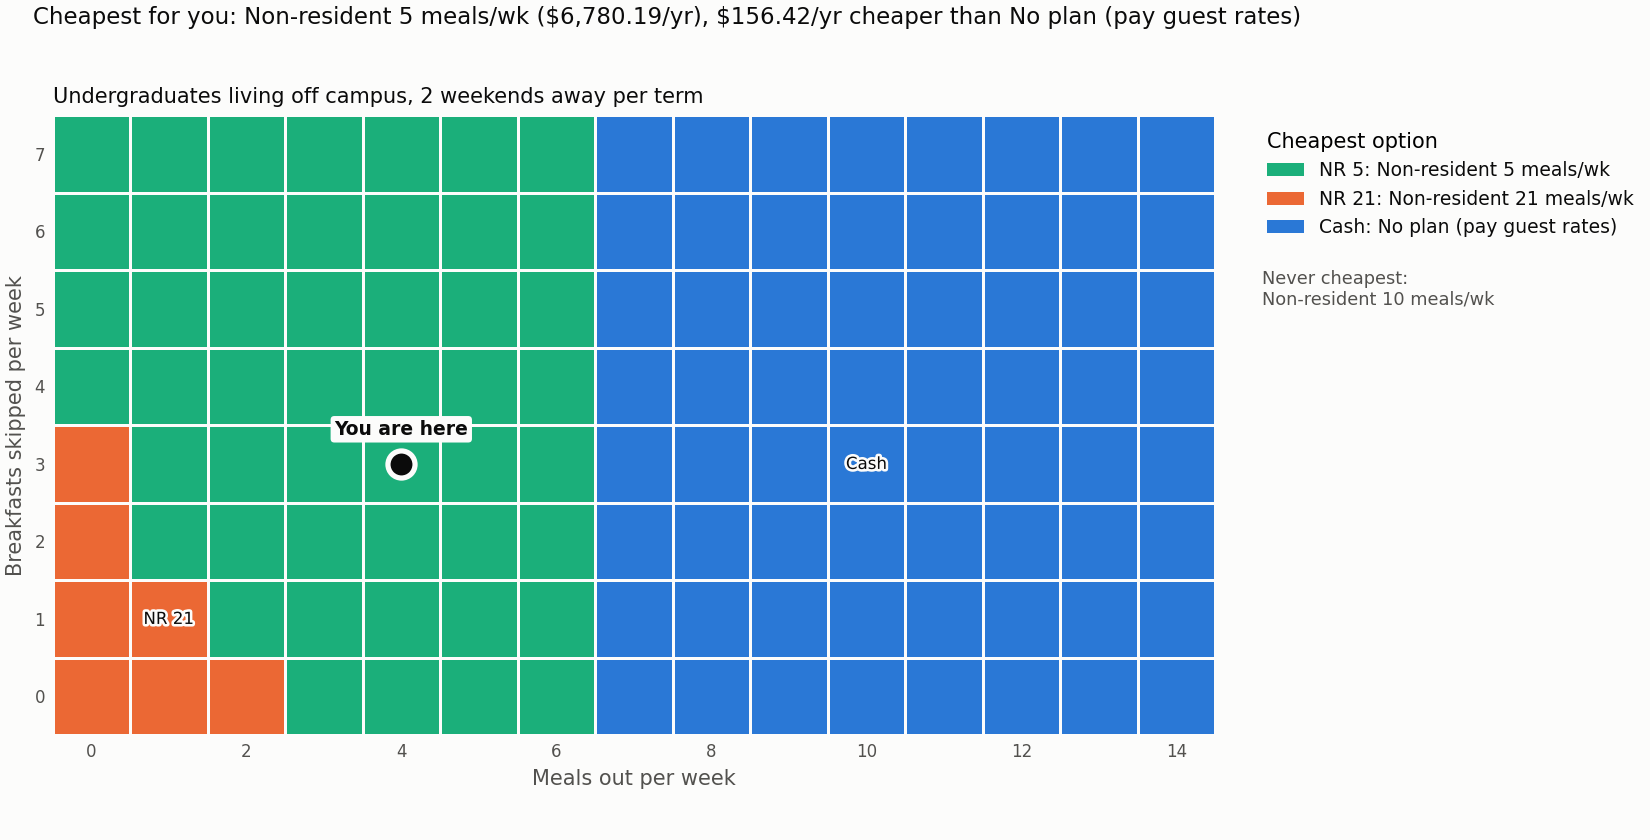
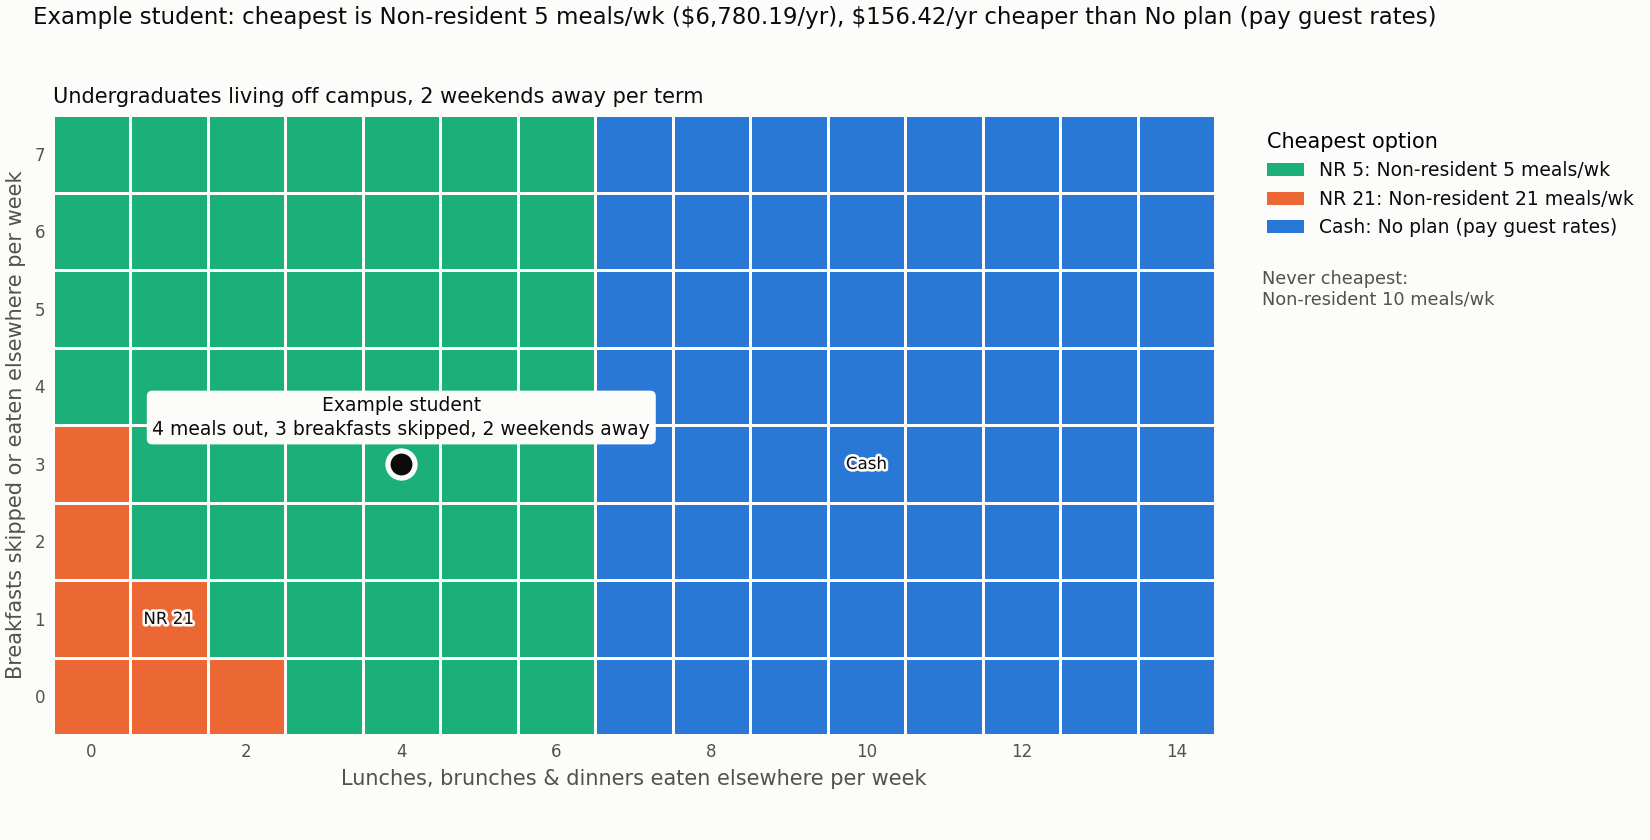
Figures: label the example student, clearer map axis titles
The dot on you_are_here.png is now labelled 'Example student' with its
habits (4 meals out, 3 breakfasts skipped, 2 weekends away); --label
sets a different name when a student plots their own habits with
--you-are-here. Map axes now read 'Lunches, brunches & dinners eaten
elsewhere per week' and 'Breakfasts skipped or eaten elsewhere per
week'. Inputs unchanged.

diff --git a/src/decision_map.py b/src/decision_map.py
@@ -185,6 +185,8 @@ SHORT_LABELS = {
     "resident": "Resident", "nr5": "NR 5", "nr10": "NR 10", "nr21": "NR 21",
     "gp_regular": "GP Reg", "gp_deluxe": "GP Deluxe", "cash_guest": "Cash", "cash_cafe": "Cash",
 }
+X_LABEL = "Lunches, brunches & dinners eaten elsewhere per week"  # the meals_out input
+Y_LABEL = "Breakfasts skipped or eaten elsewhere per week"  # the breakfasts_skipped input
 GROUP_TITLES = {
     "all": "Every plan on one map (as specified in the brief)",
     "undergrad_offcampus": "Undergraduates living off campus",
@@ -276,16 +278,20 @@ def plot_decision_map(prices: Prices, group: str, weekends_levels=range(WEEKENDS
     for ax in axes[len(levels):]:
         ax.axis("off")
     _legend(axes[len(levels)], plans, shown)
-    fig.supxlabel("Meals out per week (lunch, brunch or dinner not eaten at HUDS)", color=MUTED, fontsize=10)
-    fig.supylabel("Breakfasts skipped per week", color=MUTED, fontsize=10)
+    fig.supxlabel(X_LABEL, color=MUTED, fontsize=10)
+    fig.supylabel(Y_LABEL, color=MUTED, fontsize=10)
     fig.suptitle(f"Decision map: {GROUP_TITLES[group]}\nCheapest option per academic year, 2026-27 prices",
                  color=INK, fontsize=13, x=0.01, ha="left")
     return fig
 
 
+def _plural(n: float, word: str) -> str:
+    return f"{n:g} {word}" + ("" if n == 1 else "s")
+
+
 def plot_you_are_here(meals_out: float, breakfasts_skipped: float, weekends_away: int, prices: Prices,
-                      group: str, **kw):
-    """One map panel at the student's weekends-away level, with a dot at their habits and the answer."""
+                      group: str, label: str = "Example student", **kw):
+    """One map panel at the student's weekends-away level, with a labelled dot at their habits and the answer."""
     import matplotlib.pyplot as plt
 
     plans = GROUPS[group]
@@ -294,17 +300,19 @@ def plot_you_are_here(meals_out: float, breakfasts_skipped: float, weekends_away
     fig, ax = plt.subplots(figsize=(11, 5.6), facecolor=SURFACE, layout="constrained")
     dot = (meals_out + 0.5, breakfasts_skipped + 0.5)
     _draw_panel(ax, cells, plans, f"{GROUP_TITLES[group]}, {weekends_away} weekends away per term",
-                avoid=(dot, (dot[0], dot[1] + 1)))
+                avoid=(dot, (dot[0], dot[1] + 1), (dot[0], dot[1] + 2)))
     ax.plot(meals_out + 0.5, breakfasts_skipped + 0.5, "o", markersize=13, color=INK,
             markeredgecolor=SURFACE, markeredgewidth=2.5, zorder=5)
-    ax.annotate("You are here", (meals_out + 0.5, breakfasts_skipped + 0.5), xytext=(0, 14),
-                textcoords="offset points", ha="center", fontsize=9, color=INK, weight="bold",
-                bbox=dict(boxstyle="round,pad=0.2", fc=SURFACE, ec="none"))
-    ax.set_xlabel("Meals out per week", color=MUTED)
-    ax.set_ylabel("Breakfasts skipped per week", color=MUTED)
+    habits = (f"{_plural(meals_out, 'meal')} out, {_plural(breakfasts_skipped, 'breakfast')} skipped, "
+              f"{_plural(weekends_away, 'weekend')} away")
+    ax.annotate(f"{label}\n{habits}", dot, xytext=(0, 14), textcoords="offset points", ha="center",
+                fontsize=9, color=INK, linespacing=1.3,
+                bbox=dict(boxstyle="round,pad=0.3", fc=SURFACE, ec="none"))
+    ax.set_xlabel(X_LABEL, color=MUTED)
+    ax.set_ylabel(Y_LABEL, color=MUTED)
     # "\$" because matplotlib reads a pair of bare $ signs as maths notation.
     gap = "tied with" if rec.gap == 0 else f"\\${rec.gap:,.2f}/yr cheaper than"
-    fig.suptitle(f"Cheapest for you: {rec.label} (\\${rec.annual_cost:,.2f}/yr), {gap} {rec.runner_up_label}",
+    fig.suptitle(f"{label}: cheapest is {rec.label} (\\${rec.annual_cost:,.2f}/yr), {gap} {rec.runner_up_label}",
                  color=INK, fontsize=11, x=0.02, ha="left")
     _legend(ax, plans, {c.plan for row in cells for c in row}, loc="upper left", bbox_to_anchor=(1.03, 1),
             note_xy=(1.04, 1.0))

diff --git a/scripts/make_figures.py b/scripts/make_figures.py
@@ -3,12 +3,14 @@
 
 Usage:
   .venv/bin/python scripts/make_figures.py
-  .venv/bin/python scripts/make_figures.py --you-are-here 4 3 2 --group undergrad_offcampus
+  .venv/bin/python scripts/make_figures.py --you-are-here 4 3 2 --group undergrad_offcampus --label You
 
 Writes:
   figures/decision_map_<group>.png/.csv  for each group in MAP_GROUPS (one panel per weekends-away
                                          level; CSV has every cell's costs, cheapest plan and gap)
-  figures/you_are_here.png               the --you-are-here habits on their map
+  figures/you_are_here.png               the --you-are-here habits on their map (default: the
+                                         example student, 4 meals out, 3 breakfasts skipped,
+                                         2 weekends away)
   figures/on_campus_cost_per_meal.png/.csv  the mandatory unlimited plan's cost per meal eaten
 """
 
@@ -61,6 +63,8 @@ def main():
                     default=[4, 3, 2])
     ap.add_argument("--group", choices=MAP_GROUPS, default="undergrad_offcampus",
                     help="student group for the you-are-here figure")
+    ap.add_argument("--label", default="Example student",
+                    help='name shown at the dot, e.g. "You" when plotting your own habits')
     args = ap.parse_args()
 
     prices = load_prices()
@@ -72,7 +76,7 @@ def main():
         print(f"wrote figures/decision_map_{group}.png and .csv")
 
     mo, bs, we = args.you_are_here
-    fig = plot_you_are_here(mo, bs, int(we), prices, args.group)
+    fig = plot_you_are_here(mo, bs, int(we), prices, args.group, label=args.label)
     fig.savefig(OUT / "you_are_here.png", dpi=150, facecolor=fig.get_facecolor())
     print("wrote figures/you_are_here.png")
 
